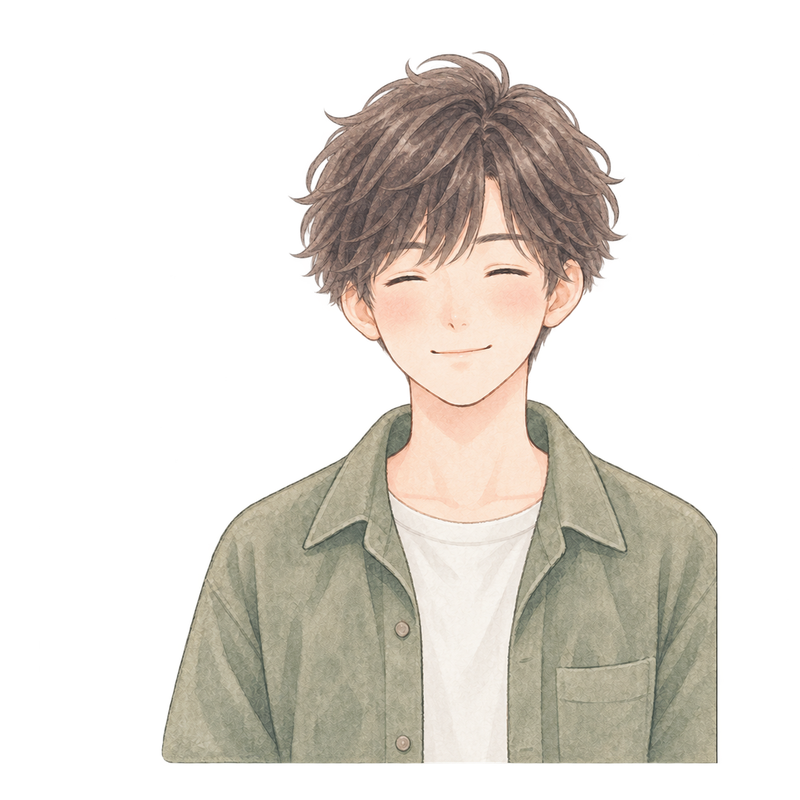
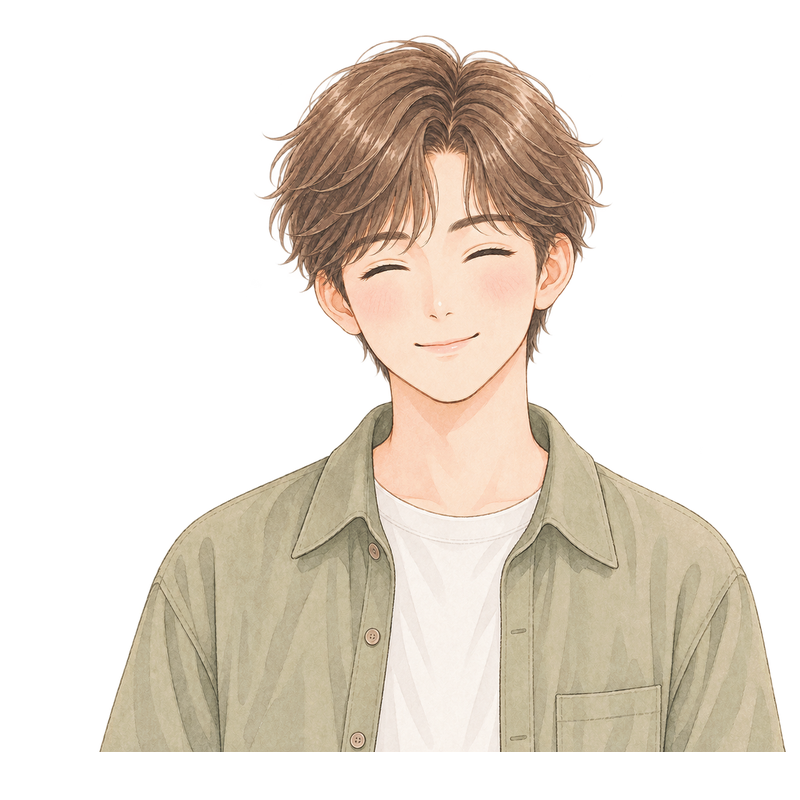
feat: customer-01〜08を統一タッチの新デザインへ全員差し替え
- 8人全員のnormal/blinkを、線の太さ・血色・陰影・彩度が揃った新しい
  絵柄セットに差し替え。これまでの個別調整（後処理での彩度・陰影補正）
  ではなく、生成段階からタッチが統一された画像に一新した。
- 各ペアともキャンバスへのフィット・実機確認（4季×8人=32パターン、
  頭頂部/肩の切れなし、瞬き時dx=dw=0.000、呼吸アニメーション干渉なし）
  を実施済み。
- customer-01のageを20代→10代後半に修正。
- customer-02（30代）・04（40代）はage/personaを現状維持。IMAGE_ASSETS.md
  §4に「若年〜中年層の年齢表現について」の方針を追記し、20〜40代は
  顔の描き分けよりも髪型・服装・人物設定・台詞で年齢感を出す方針とした
  （明確な加齢表現は50代以降のcustomerに限定）。

Claude-Session: https://claude.ai/code/session_01NKV57SwEiDA72EkGzXeu8N

Changed region(s): [[0.125, 0.0312, 1.0, 0.9688]]

diff --git a/src/data/customers.ts b/src/data/customers.ts
@@ -81,7 +81,7 @@ export const CUSTOMERS: Customer[] = [
   {
     id: 'customer-01',
     name: 'はるかさん',
-    age: '20代',
+    age: '10代後半',
     persona: 'よく笑う同僚。ビタミンカラーの服',
     entrance: '仕事帰りのようで、鞄を抱えたまま、少し急いで入ってきました。',
     life: '大学時代の恩師が、今年で退職されるそうです。',

diff --git a/IMAGE_ASSETS.md b/IMAGE_ASSETS.md
@@ -194,6 +194,18 @@
 
 この表の「人物像」列は、`src/data/customers.ts` の `persona` と常に一致させること。
 
+### 若年〜中年層の年齢表現について
+
+この絵本挿絵タッチでは、20〜40代のあいだで顔立ちに強くしわ・年齢差を描き込むと、
+かえって customer-05〜08（白髪など明確な加齢表現がある人物）とのシリーズ内の
+統一感が崩れやすい。そのため、20〜40代の customer については
+
+- 顔の描き分けよりも、髪型・服装・表情の落ち着き方・人物設定・台詞で年齢感を出す
+- 「顔だけで実年齢が判別できるか」を過度に厳密に求めない
+- 明確な加齢表現（白髪・深いしわなど）は、50代以降の customer に留める
+
+という方針とする。
+
 ---
 
 > **（追記・半写実の水彩人物画へ）**
